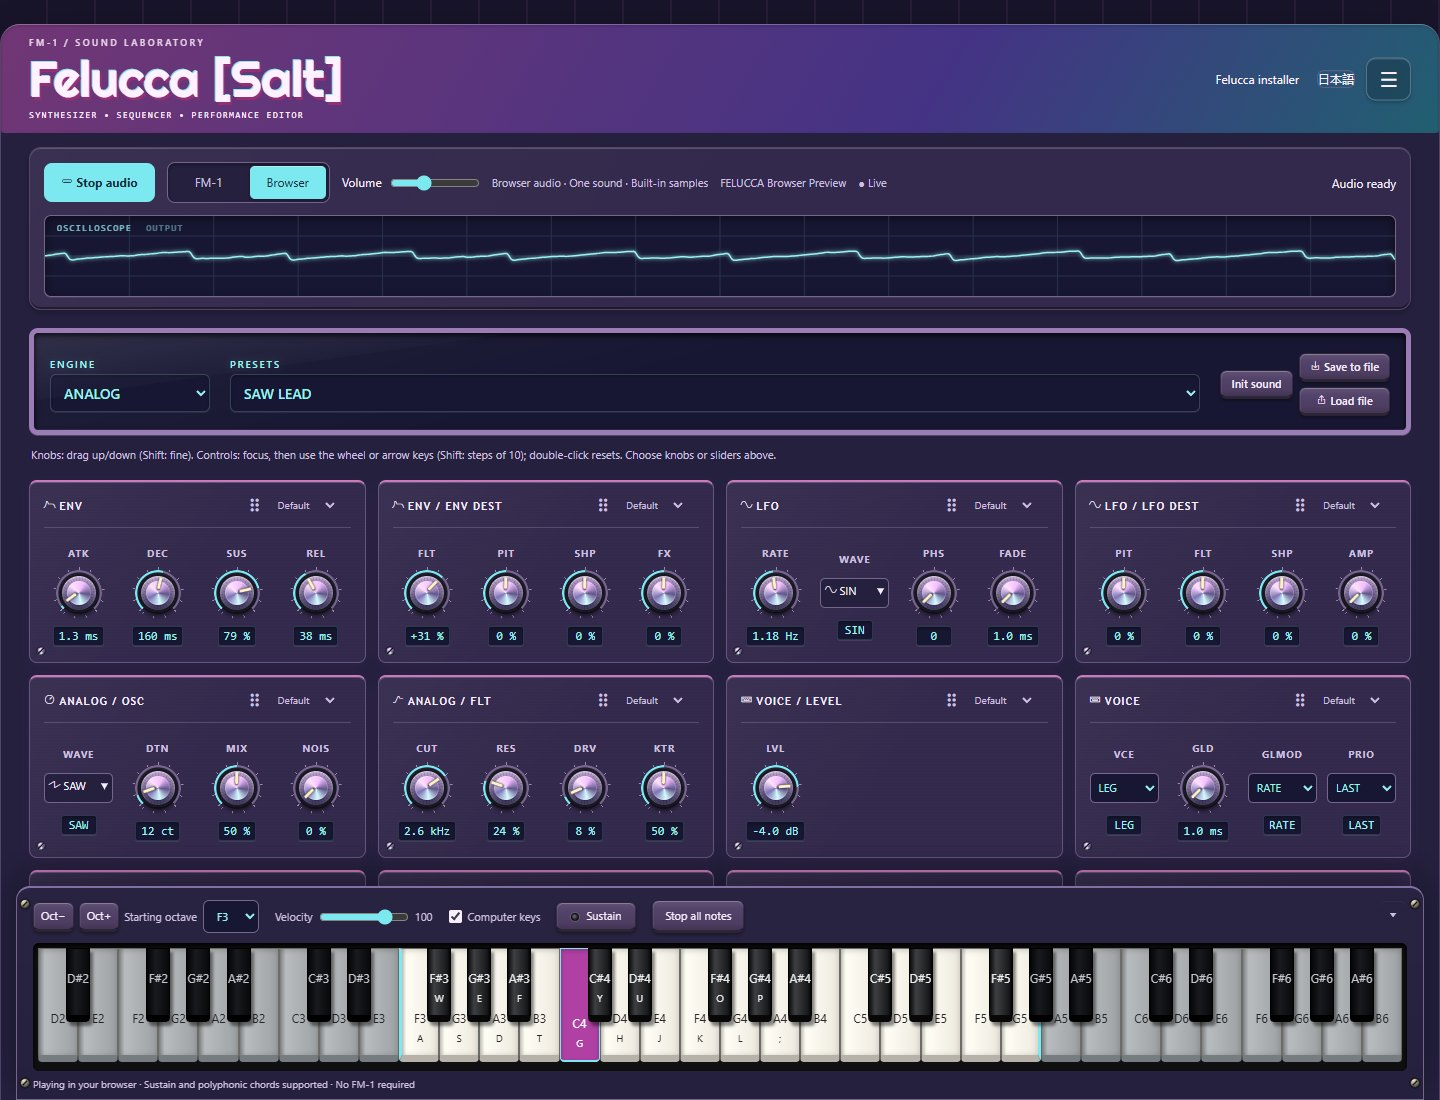
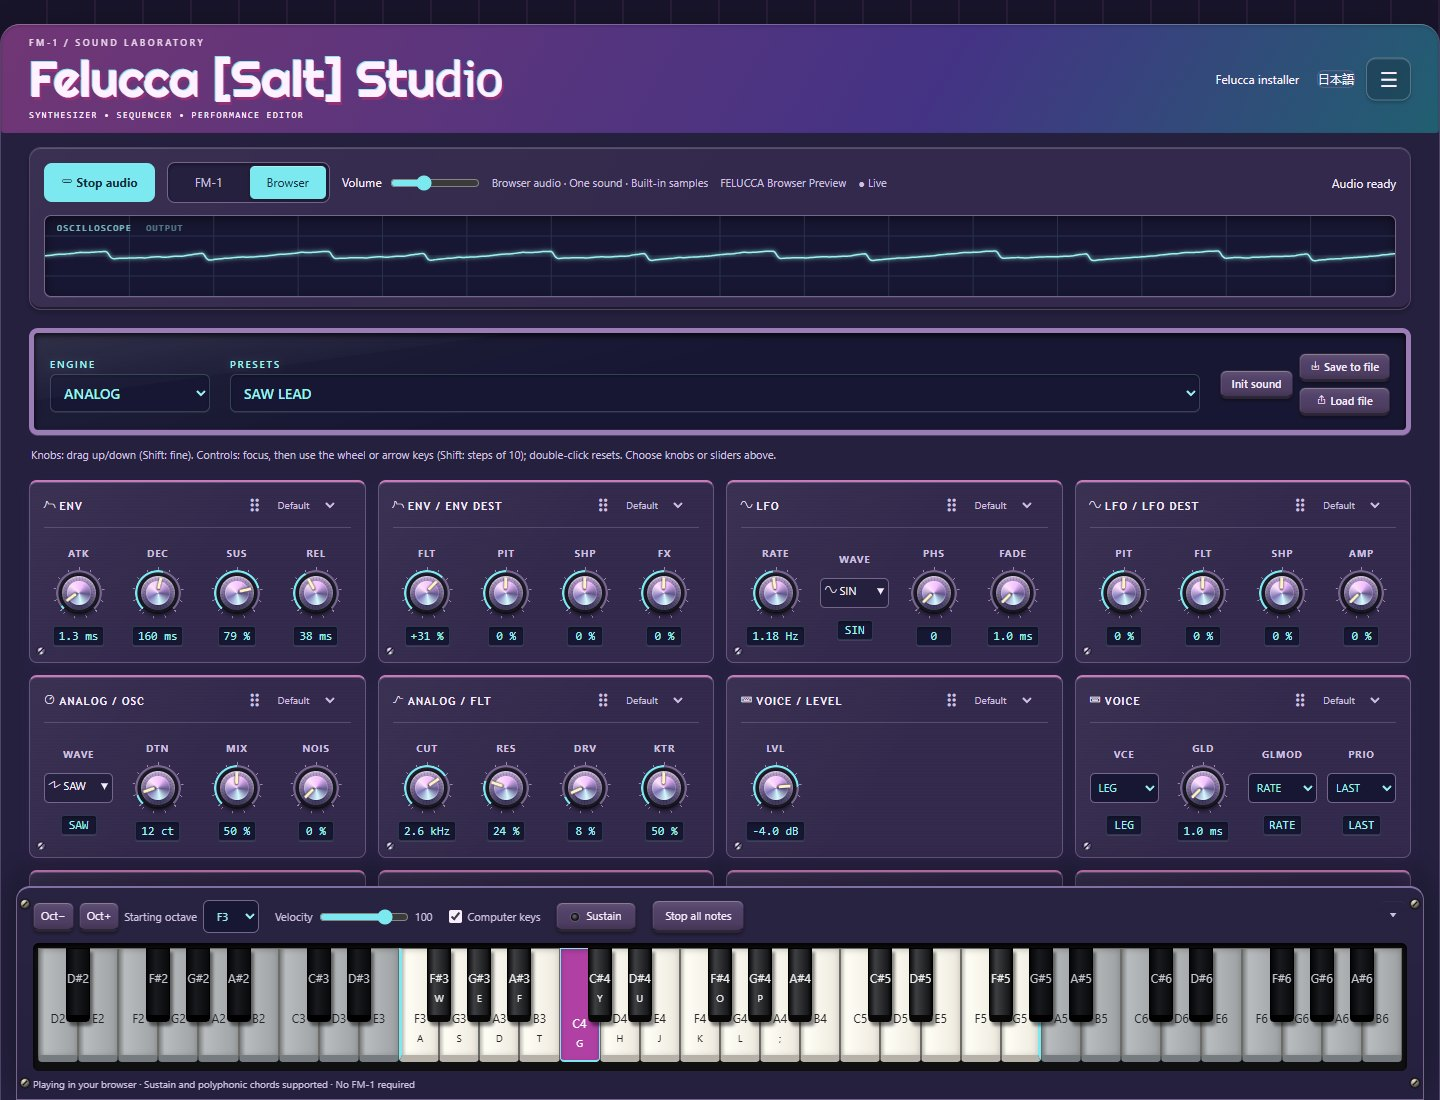
Introduce Felucca Salt Studio with inviting install action and remembered mode tip

diff --git a/web/index_pkg.html b/web/index_pkg.html
@@ -5,7 +5,7 @@
 <head>
 <meta charset="utf-8">
 <meta name="viewport" content="width=device-width, initial-scale=1">
-<title>Felucca [Salt] Installer</title>
+<title>Felucca [Salt] Studio — FM-1 Installer</title>
 <style>
   :root { --bg: #fff; --fg: #000; --dim: #777; }
   @media (prefers-color-scheme: dark) {
@@ -37,15 +37,15 @@
 <body class="installer-page">
 <main>
   <div class="masthead"><div class="brand-row">
-    <div><div class="eyebrow">FM-1 / Custom firmware</div><h1>Felucca <em>[Salt]</em></h1><p class="tagline">SMALL INSTRUMENT. BIG POSSIBILITIES.</p></div>
-    <div class="brand-links"><a href="../editor/">Open editor ↗</a><button class="lang" id="lang"></button></div>
+    <div><div class="eyebrow">FM-1 / Custom firmware</div><h1>Felucca <em>[Salt]</em> Studio</h1><p class="tagline">SMALL INSTRUMENT. BIG POSSIBILITIES.</p></div>
+    <div class="brand-links"><a href="../editor/">Open Studio ↗</a><button class="lang" id="lang"></button></div>
   </div>
   <div class="appearance" data-appearance aria-label="Website appearance"></div>
   </div>
   <div class="install-console">
   <div class="installer-hero" lang="en">
     <div><h2>A little synth.<br>A bigger playground.</h2><p>Play a sound in your browser or connect your FM-1. A hands-on editor, expressive MIDI, and twelve looks to make it yours.</p></div>
-    <a class="hero-link" href="../editor/">Open the editor ↗</a>
+    <a class="hero-link" href="../editor/">Open Studio ↗</a>
   </div>
   <p class="small" id="release"></p>
   <p data-t="intro"></p>
@@ -56,7 +56,7 @@
     <a href="https://github.com/kurogedelic/FM-1-transporter" target="_blank" rel="noopener" style="color:inherit">FM-1-transporter</a></p>
   <p class="small" data-t="back"></p>
   <p class="small"><a href="https://www.m-vave.com/download" target="_blank" rel="noopener" style="color:inherit">www.m-vave.com/download</a></p>
-  <p><button id="go" disabled data-t="install"></button></p>
+  <p class="install-action"><button id="go" disabled data-t="install"></button></p>
   <progress id="bar" max="100" value="0"></progress>
   <p id="status"></p>
   <pre id="log"></pre>
@@ -73,7 +73,7 @@
       <li><strong>A keyboard that stays within reach.</strong> Play with your mouse, touch, or computer keys. The docked keyboard starts at the FM-1's F3–G5 range, adds shaded extra keys on wide screens, and folds into a tray.</li>
     </ul>
     <p>Browser mode currently plays one sound. Sequencing, track mixing, sample uploads, and projects are not connected to browser playback yet. Save sound edits with <b>Save to file</b>. The full device editor remains available in FM-1 mode.</p>
-    <p><a class="hero-link" href="../editor/">Open editor and select Browser →</a></p>
+    <p><a class="hero-link" href="../editor/">Open Studio →</a></p>
     <div class="screenshot-gallery" aria-label="Editor screenshots">
       <figure><a href="screenshots/stage.jpg" target="_blank" rel="noopener"><img src="screenshots/stage.jpg" width="1440" height="1100" loading="lazy" alt="Stage Red editor with wood sides, red keyboard surround, and a live oscilloscope"></a><figcaption>Stage Red · Browser synth &amp; oscilloscope</figcaption></figure>
       <figure><a href="screenshots/matrix.jpg" target="_blank" rel="noopener"><img src="screenshots/matrix.jpg" width="1440" height="1100" loading="lazy" alt="Matrix editor theme with green illuminated controls"></a><figcaption>Matrix · Green phosphor display</figcaption></figure>
@@ -115,7 +115,7 @@ const TEXT = {
   ja: {
     intro: "FM-1 を USB で接続してください。（Chrome か Edge で使えます）",
     warn: "書き込み中は USB を抜かないでください。",
-    install: "インストール", other: "English",
+    install: "Felucca [Salt] をインストール", other: "English",
     editor: "エディタ（インストール後、パソコンから音色やシーケンスを編集）",
     direct: "USB ケーブルはパソコンに直接つないでください。Probe や Transporter などの機材は不要です。",
     brick: "万一インストールに失敗して起動しなくなった場合は、復旧に Transporter が必要です:",
@@ -139,8 +139,8 @@ const TEXT = {
   en: {
     intro: "Connect the FM-1 by USB. (Works in Chrome or Edge.)",
     warn: "Do not unplug the USB cable while writing.",
-    install: "Install", other: "日本語",
-    editor: "Editor (after installing: edit sounds and sequences from the computer)",
+    install: "Install Felucca [Salt]", other: "日本語",
+    editor: "Open Studio — play in your browser or edit your connected FM-1",
     direct: "Connect the USB cable directly to the computer. No probe or Transporter is needed.",
     brick: "If an install fails and the FM-1 no longer starts, recovering it needs a Transporter:",
     beta: "This is a beta and may be unstable. The author accepts no responsibility if your FM-1 is damaged or misbehaves because of this custom firmware. Use it at your own risk.",

diff --git a/web/editor.html b/web/editor.html
@@ -7,7 +7,7 @@
 <head>
 <meta charset="utf-8">
 <meta name="viewport" content="width=device-width, initial-scale=1">
-<title>Felucca [Salt] Editor</title>
+<title>Felucca [Salt] Studio</title>
 <style>
   /* Fukiai: Hügelton Instruments' icon font (MIT, FUKIAI-LICENSE.txt). Icons are text in .ic spans;
      they stay hidden until the face has loaded (html.fk), so a missing font never shows boxes. */
@@ -169,7 +169,7 @@
 <body class="editor-page">
 <main>
   <div class="masthead"><div class="brand-row">
-    <div><div class="eyebrow">FM-1 / Sound laboratory</div><h1>Felucca <em>[Salt]</em></h1><p class="tagline">SYNTHESIZER • SEQUENCER • PERFORMANCE EDITOR</p></div>
+    <div><div class="eyebrow">FM-1 / Sound laboratory</div><h1>Felucca <em>[Salt]</em> Studio</h1><p class="tagline">SYNTHESIZER • SEQUENCER • PERFORMANCE EDITOR</p></div>
     <div class="brand-links"><a href="../installer/" data-t="installer"></a><button class="lang" id="lang"></button></div>
   </div>
   <div class="appearance" data-appearance aria-label="Website appearance"></div>
@@ -340,7 +340,7 @@
     <div class="piano-scroll"><div class="piano" id="play-keys" role="group" aria-labelledby="play-title"></div></div>
     <p id="play-help"></p>
   </section>
-  <footer>Felucca [Salt] by Chance Roth (<a href="https://github.com/ChanceTheMaker" target="_blank" rel="noopener">@ChanceTheMaker</a>).<br>
+  <footer>Felucca [Salt] Studio by Chance Roth (<a href="https://github.com/ChanceTheMaker" target="_blank" rel="noopener">@ChanceTheMaker</a>).<br>
     Based on Felucca by Leo Kuroshita (@kurogedelic), <a href="https://hugelton.com" target="_blank" rel="noopener">Hügelton Instruments</a>. GPL-3.0.<br>
     <span data-t="foot"></span> M-VAVE and FM-1 are trademarks of their respective owners.<br>
     <a href="FUKIAI-LICENSE.txt" data-t="iconsCredit"></a></footer>
@@ -3791,6 +3791,40 @@ async function switchAudioMode(browser) {
 }
 $('mode-fm1').onclick = () => switchAudioMode(false);
 $('mode-browser').onclick = () => switchAudioMode(true);
+// A one-time, anchored introduction to the two sound sources.
+const modeTip = document.createElement('aside');
+modeTip.className = 'mode-tip'; modeTip.hidden = true;
+modeTip.setAttribute('role', 'status');
+modeTip.innerHTML = '<span>Connect to your FM-1 or play right in the browser!</span><button type="button" aria-label="Dismiss sound source tip">×</button>';
+document.body.append(modeTip);
+const tipKey = 'felucca.web.soundSourceTipDismissed';
+function dismissModeTip() {
+  modeTip.hidden = true;
+  try { localStorage.setItem(tipKey, '1'); } catch (_) { /* storage unavailable */ }
+}
+function positionModeTip() {
+  if (modeTip.hidden) return;
+  const anchor = $('audio-mode').getBoundingClientRect();
+  modeTip.style.visibility = anchor.bottom <= 0 || anchor.top >= innerHeight ? 'hidden' : 'visible';
+  const width = Math.min(330, innerWidth - 24);
+  modeTip.style.width = width + 'px';
+  const beside = anchor.right + 14 + width <= innerWidth - 12;
+  modeTip.classList.toggle('below', !beside);
+  const left = beside ? anchor.right + 14 : Math.max(12, Math.min(anchor.left, innerWidth - width - 12));
+  modeTip.style.left = left + 'px';
+  modeTip.style.top = (beside ? anchor.top + anchor.height / 2 - modeTip.offsetHeight / 2 : anchor.bottom + 14) + 'px';
+  modeTip.style.setProperty('--tip-arrow-x', Math.max(18, Math.min(width - 18, anchor.left + anchor.width / 2 - left)) + 'px');
+}
+modeTip.querySelector('button').onclick = dismissModeTip;
+$('audio-mode').addEventListener('click', dismissModeTip);
+document.addEventListener('keydown', e => { if (e.key === 'Escape') dismissModeTip(); });
+window.addEventListener('resize', positionModeTip);
+window.addEventListener('scroll', positionModeTip, {passive:true});
+setTimeout(() => {
+  let dismissed = false;
+  try { dismissed = localStorage.getItem(tipKey) === '1'; } catch (_) { /* storage unavailable */ }
+  if (!dismissed) { modeTip.hidden = false; positionModeTip(); }
+}, 700);
 applyLang();
 showTab(tab);
 libInit();

diff --git a/web/interface.css b/web/interface.css
@@ -56,6 +56,27 @@ select, input[type=text], input[type=number], input[type=search] { border-radius
 .top > .bar { gap:12px; }
 #connect, #go { background:var(--accent); color:var(--ink); border-color:transparent; padding:9px 16px; border-radius:8px; }
 #connect:hover, #go:hover { background:color-mix(in srgb,var(--accent) 85%,white); color:var(--ink); }
+.installer-page #go {
+  display:inline-flex; align-items:center; justify-content:center; gap:16px;
+  min-height:62px; padding:16px 28px; max-width:100%;
+  font:750 clamp(16px,2vw,21px)/1.25 var(--ui-font); letter-spacing:-.3px;
+  background:linear-gradient(150deg,color-mix(in srgb,var(--accent) 72%,white),var(--accent) 55%,color-mix(in srgb,var(--accent) 88%,black));
+  border:1px solid color-mix(in srgb,var(--accent) 65%,white); border-radius:13px;
+  box-shadow:inset 0 2px 1px #ffffff70,0 5px 0 color-mix(in srgb,var(--accent) 45%,black),0 12px 28px color-mix(in srgb,var(--accent) 20%,transparent);
+  transition:transform .16s,box-shadow .16s,filter .16s;
+}
+.installer-page #go::before { content:'↓'; display:grid; place-items:center; flex-shrink:0; width:31px; height:31px; border:1px solid currentColor; border-radius:50%; font-size:24px; }
+.installer-page #go:hover:not(:disabled) { transform:translateY(-2px); filter:brightness(1.06); box-shadow:inset 0 2px 1px #ffffff80,0 7px 0 color-mix(in srgb,var(--accent) 45%,black),0 16px 34px color-mix(in srgb,var(--accent) 28%,transparent); }
+.installer-page #go:active:not(:disabled) { transform:translateY(3px); box-shadow:inset 0 1px 3px #0003,0 2px 0 color-mix(in srgb,var(--accent) 45%,black); }
+.installer-page #go:focus-visible { outline:3px solid var(--fg); outline-offset:7px; }
+.install-action { margin:24px 0 30px; }
+.mode-tip:not([hidden]) { display:flex; align-items:center; gap:12px; position:fixed; z-index:1000; box-sizing:border-box; padding:15px 12px 15px 18px; border:1px solid var(--accent); border-radius:12px; background:var(--panel); color:var(--fg); font:600 13px/1.5 var(--ui-font); box-shadow:0 8px 28px #0005,inset 0 1px #ffffff18; animation:mode-tip-enter .22s ease-out; }
+.mode-tip::before { content:''; position:absolute; left:-7px; top:calc(50% - 6px); width:12px; height:12px; background:var(--panel); border-left:1px solid var(--accent); border-bottom:1px solid var(--accent); transform:rotate(45deg); }
+.mode-tip.below::before { left:calc(var(--tip-arrow-x) - 6px); top:-7px; transform:rotate(135deg); }
+.mode-tip button { flex-shrink:0; display:grid; place-items:center; min-width:32px; min-height:32px; padding:0; color:var(--fg); background:transparent; border:0; box-shadow:none; font-size:22px; }
+.mode-tip button:focus-visible { outline:2px solid var(--accent); outline-offset:2px; }
+@keyframes mode-tip-enter { from { opacity:0; transform:translateX(7px); } to { opacity:1; transform:translateX(0); } }
+@media(prefers-reduced-motion:reduce) { .mode-tip:not([hidden]) { animation:none; } .installer-page #go { transition:none; } }
 #version, #live, #mock { font:11px var(--ui-font); color:var(--dim); }
 .top #status { display:flex; align-items:center; justify-content:flex-end; background:none; box-shadow:none; color:var(--fg); padding:0; font:12px var(--ui-font); }
 .tabs { gap:4px; background:color-mix(in srgb,var(--bg) 80%,transparent); border-radius:8px; padding:4px; margin-bottom:0; }

diff --git a/web/make_site.py b/web/make_site.py
@@ -69,9 +69,9 @@ def main(pkg, version, out):
         if (HERE / f).exists():
             shutil.copy(HERE / f, ed / f)
     (out / "index.html").write_text(
-        '<!doctype html><meta charset="utf-8"><title>Felucca [Salt]</title>'
+        '<!doctype html><meta charset="utf-8"><title>Felucca [Salt] Studio</title>'
         '<meta http-equiv="refresh" content="0; url=webapp/installer/">'
-        '<a href="webapp/installer/">Felucca [Salt] installer</a>\n', encoding="utf-8")
+        '<a href="webapp/installer/">Felucca [Salt] Studio — FM-1 installer</a>\n', encoding="utf-8")
     print(f"site: {out}: webapp/installer ({len(html)} B), webapp/editor, firmware/{name} ({len(raw)} B, {product})")
 
 
